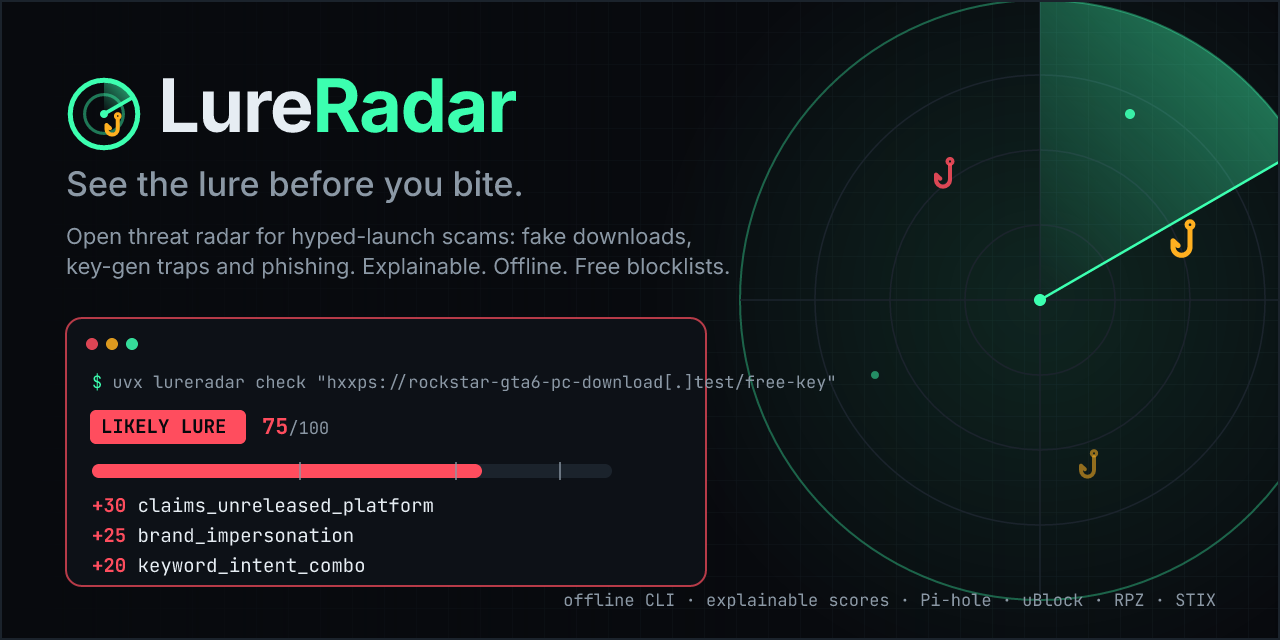
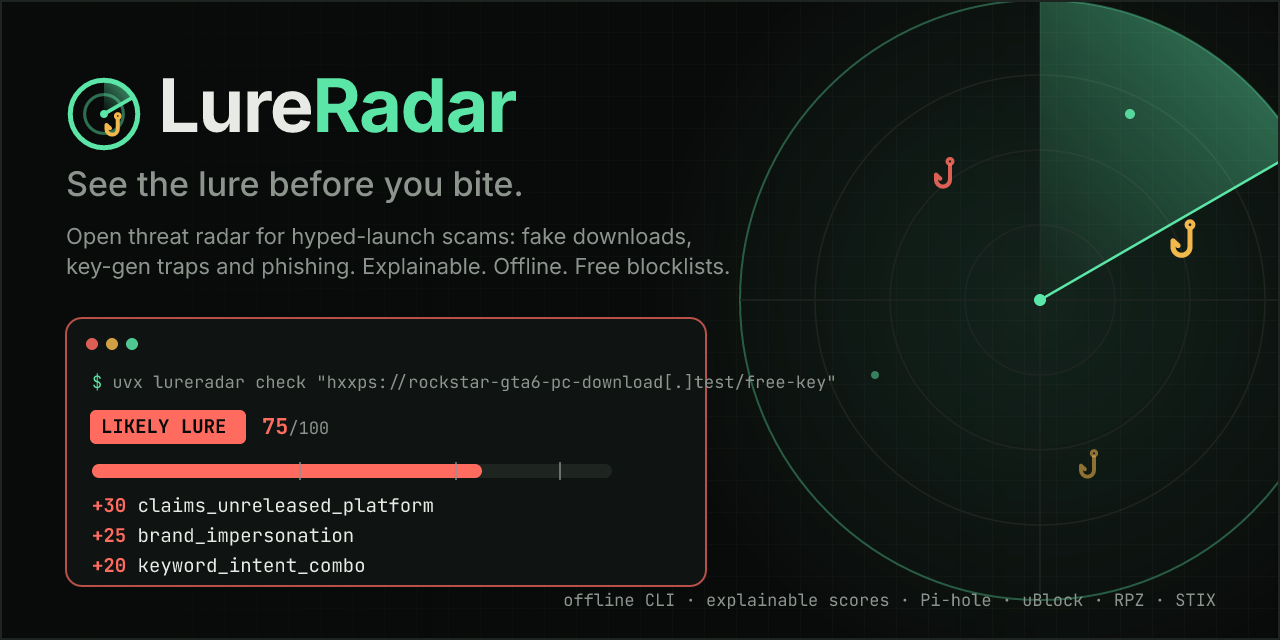
fix: PC Watch could never succeed; brand colours had two sources of truth
Found by running the real pipelines for the first time:

- PC Watch: both required sources failed live, so the status could never
  leave UNKNOWN. Take-Two moved its listing (/ir/news -> /ir/press-releases;
  verified: 5 GTA VI releases parsed, 0 PC findings). Rockstar's Newswire
  renders client-side (app shell, no list, no RSS/Atom), so it is now
  reported as "unsupported" instead of failing; its announcements are
  republished as Take-Two press releases and SEC filings, which are checked.
  Tests now model an announcement arriving through Take-Two; docs and site
  copy describe the real sources.
- theme.py claimed "a test keeps it in sync" with tokens.css; no such test
  existed and the values had drifted. theme.py now matches the site's dark
  tokens, tests/unit/test_theme_tokens.py enforces it, and gen_og derives its
  palette from theme.py instead of a third hard-coded copy (social cards,
  favicons and the web manifest now match the site). Logo, wordmark, banner
  and favicon SVGs use the same palette.
- Home: with an empty live feed the radar readout said "Select a contact";
  it now says the scope is clear, and zero counts are no longer tinted.

Claude-Session: https://claude.ai/code/session_01C6R6pU86Cdtdz3AgdYDmHz

diff --git a/tests/fixtures/pcwatch/announced/take-two-ir.html b/tests/fixtures/pcwatch/announced/take-two-ir.html
@@ -1,5 +1,6 @@
-<!-- SYNTHETIC test fixture -->
+<!-- SYNTHETIC test fixture: a hypothetical announcement, written for tests only -->
 <html><body>
+<a href="/ir/news/test-pc">Rockstar Games Announces Grand Theft Auto VI Coming to PC on May 4, 2027</a>
 <a href="/ir/news/test-launch">Rockstar Games Announces Grand Theft Auto VI Now Available on PlayStation 5 and Xbox Series X|S</a>
 <a href="/ir/news/test-q2">Take-Two Interactive Reports Results for Fiscal Second Quarter</a>
 </body></html>

diff --git a/tests/unit/test_pcwatch.py b/tests/unit/test_pcwatch.py
@@ -50,7 +50,9 @@ def with_pc_fact(status: str, value: str | None = None) -> Pack:
 # ---------------------------------------------------------------- config
 def test_config_and_timeline_are_verified() -> None:
     assert CONFIG.stale_after_hours == 36
-    assert {s.id for s in CONFIG.sources if s.required} == {"rockstar-newswire", "take-two-ir"}
+    assert {s.id for s in CONFIG.sources if s.required} == {"take-two-ir"}
+    # The Newswire renders client-side (no list, no feed): reported, never parsed.
+    assert next(s for s in CONFIG.sources if s.id == "rockstar-newswire").format == "unsupported"
     assert CONFIG.timeline, "timeline must be seeded with verified entries"
     for e in CONFIG.timeline:
         assert e.kind == "official" and e.url and e.date and e.verified_on
@@ -134,7 +136,7 @@ def test_failures_never_produce_not_announced() -> None:
     assert state.status is Status.UNKNOWN and state.stale
     assert state.note.startswith("UNKNOWN (last confirmed NOT_ANNOUNCED")
     failed = {s.id: s.status for s in state.sources}
-    assert failed["rockstar-newswire"] == "failed" and failed["take-two-ir"] == "failed"
+    assert failed["take-two-ir"] == "failed" and failed["rockstar-newswire"] == "unsupported"
 
 
 def test_no_check_at_all_is_unknown() -> None:
@@ -161,7 +163,7 @@ def test_announcement_needs_maintainer_review() -> None:
     assert state.status is Status.NOT_ANNOUNCED  # unchanged until facts.yaml is edited
     assert state.review_pending and state.suggested_status is Status.ANNOUNCED_DATED
     body = issue_body(state, result)
-    assert "maintainer" in body and "facts.yaml" in body and "rockstargames.com" in body
+    assert "maintainer" in body and "facts.yaml" in body and "take2games.com" in body
     assert ISSUE_TITLE.startswith("PC Watch")
 
 

diff --git a/tests/unit/test_theme_tokens.py b/tests/unit/test_theme_tokens.py
@@ -1,0 +1,32 @@
+"""theme.py (terminal card, OG and report images) must match the site's dark tokens."""
+
+from __future__ import annotations
+
+import re
+from pathlib import Path
+
+from lureradar import theme
+
+TOKENS = Path(__file__).resolve().parents[2] / "web" / "src" / "styles" / "tokens.css"
+PAIRS = {
+    "--bg": theme.BG,
+    "--surface": theme.SURFACE,
+    "--border": theme.BORDER,
+    "--text": theme.TEXT,
+    "--muted": theme.MUTED,
+    "--radar": theme.RADAR,
+    "--amber": theme.AMBER,
+    "--danger": theme.DANGER,
+    "--info": theme.INFO,
+}
+
+
+def test_theme_matches_dark_tokens() -> None:
+    css = TOKENS.read_text(encoding="utf-8")
+    root = css[css.index(":root {") : css.index("}", css.index(":root {"))]
+    for name, value in PAIRS.items():
+        m = re.search(rf"{re.escape(name)}:\s*(#[0-9a-fA-F]{{6}});", root)
+        assert m, f"{name} missing from the dark :root block"
+        assert m.group(1).lower() == value.lower(), (
+            f"{name}: tokens.css {m.group(1)} != theme.py {value}"
+        )

diff --git a/src/lureradar/theme.py b/src/lureradar/theme.py
@@ -1,6 +1,7 @@
 """Design tokens shared by the terminal card, report images and the website.
 
-Mirrors ``web/src/styles/tokens.css`` (a test keeps them in sync).
+Mirrors the dark theme in ``web/src/styles/tokens.css``;
+``tests/unit/test_theme_tokens.py`` fails if the two drift.
 """
 
 from __future__ import annotations
@@ -9,15 +10,15 @@ from typing import Final
 
 from lureradar.models import Tier
 
-BG: Final = "#07090D"
-SURFACE: Final = "#0D1117"
-BORDER: Final = "#1B232C"
-TEXT: Final = "#E6EDF3"
-MUTED: Final = "#8B98A5"
-RADAR: Final = "#3CFFB0"
-AMBER: Final = "#FFB020"
-DANGER: Final = "#FF4D5E"
-INFO: Final = "#4CC2FF"
+BG: Final = "#080A09"
+SURFACE: Final = "#0F1311"
+BORDER: Final = "#1E2420"
+TEXT: Final = "#E8EBE5"
+MUTED: Final = "#8C948D"
+RADAR: Final = "#5BE6A7"
+AMBER: Final = "#F2B84B"
+DANGER: Final = "#FF6B5F"
+INFO: Final = "#9CC0FF"
 
 TIER_COLORS: Final = {
     Tier.CLEAR: RADAR,

diff --git a/scripts/gen_og.py b/scripts/gen_og.py
@@ -32,10 +32,13 @@ ASSETS = ROOT / "assets"
 WEB = ROOT / "web"
 PUBLIC = WEB / "public"
 
+sys.path.insert(0, str(ROOT / "src"))
+from lureradar import theme as _theme  # noqa: E402  (single source, pinned to tokens.css by a test)
+
 T = {
-    "bg": "#07090D", "surface": "#0D1117", "border": "#1B232C", "text": "#E6EDF3",
-    "muted": "#8B98A5", "radar": "#3CFFB0", "amber": "#FFB020", "danger": "#FF4D5E",
-    "info": "#4CC2FF",
+    "bg": _theme.BG, "surface": _theme.SURFACE, "border": _theme.BORDER, "text": _theme.TEXT,
+    "muted": _theme.MUTED, "radar": _theme.RADAR, "amber": _theme.AMBER, "danger": _theme.DANGER,
+    "info": _theme.INFO,
 }  # fmt: skip
 TIER = {
     "clear": ("CLEAR", T["radar"]),

diff --git a/docs/PC_WATCH.md b/docs/PC_WATCH.md
@@ -33,12 +33,12 @@ the timeline only as "Reported / unconfirmed" items, off by default.
 
 | Source | Endpoint | Format | Required | Status at build time |
 |---|---|---|---|---|
-| Rockstar Games Newswire | `rockstargames.com/newswire` | HTML listing | yes | adapter + fixtures; live check pending first CI run |
-| Take-Two press releases | `take2games.com/ir/news` | HTML listing | yes | adapter + fixtures; live check pending first CI run |
-| SEC EDGAR (Take-Two 8-K) | `sec.gov` Atom feed | Atom | no | adapter + fixtures; SEC may require a contact User-Agent |
-| Steam store search | `store.steampowered.com/api/storesearch` | JSON | no | adapter + fixtures |
+| Rockstar Games Newswire | `rockstargames.com/newswire` | unsupported | no | renders client-side: no server-rendered list and no RSS/Atom (verified 2026-11-24); its announcements are republished by Take-Two and SEC filings |
+| Take-Two press releases | `take2games.com/ir/press-releases` | HTML listing | yes | live OK 2026-11-24 (5 GTA VI items, 0 PC findings); moved from `/ir/news` |
+| SEC EDGAR (Take-Two 8-K) | `sec.gov` Atom feed | Atom | no | live OK 2026-11-24 (40 items) |
+| Steam store search | `store.steampowered.com/api/storesearch` | JSON | no | live OK 2026-11-24 |
 | Epic Games Store, Microsoft Store, PlayStation Store | none verified | unsupported | no | shown as UNKNOWN for that source |
-| Rockstar official social accounts | APIs need credentials | unsupported | no | mirrored by the Newswire |
+| Rockstar official social accounts | APIs need credentials | unsupported | no | announcements are mirrored by Take-Two press releases |
 
 The build sandbox for v0.1.0 had no egress, so live structure checks run in
 the `pc-watch` workflow. Every source declares `expect_min_items`: if a page
